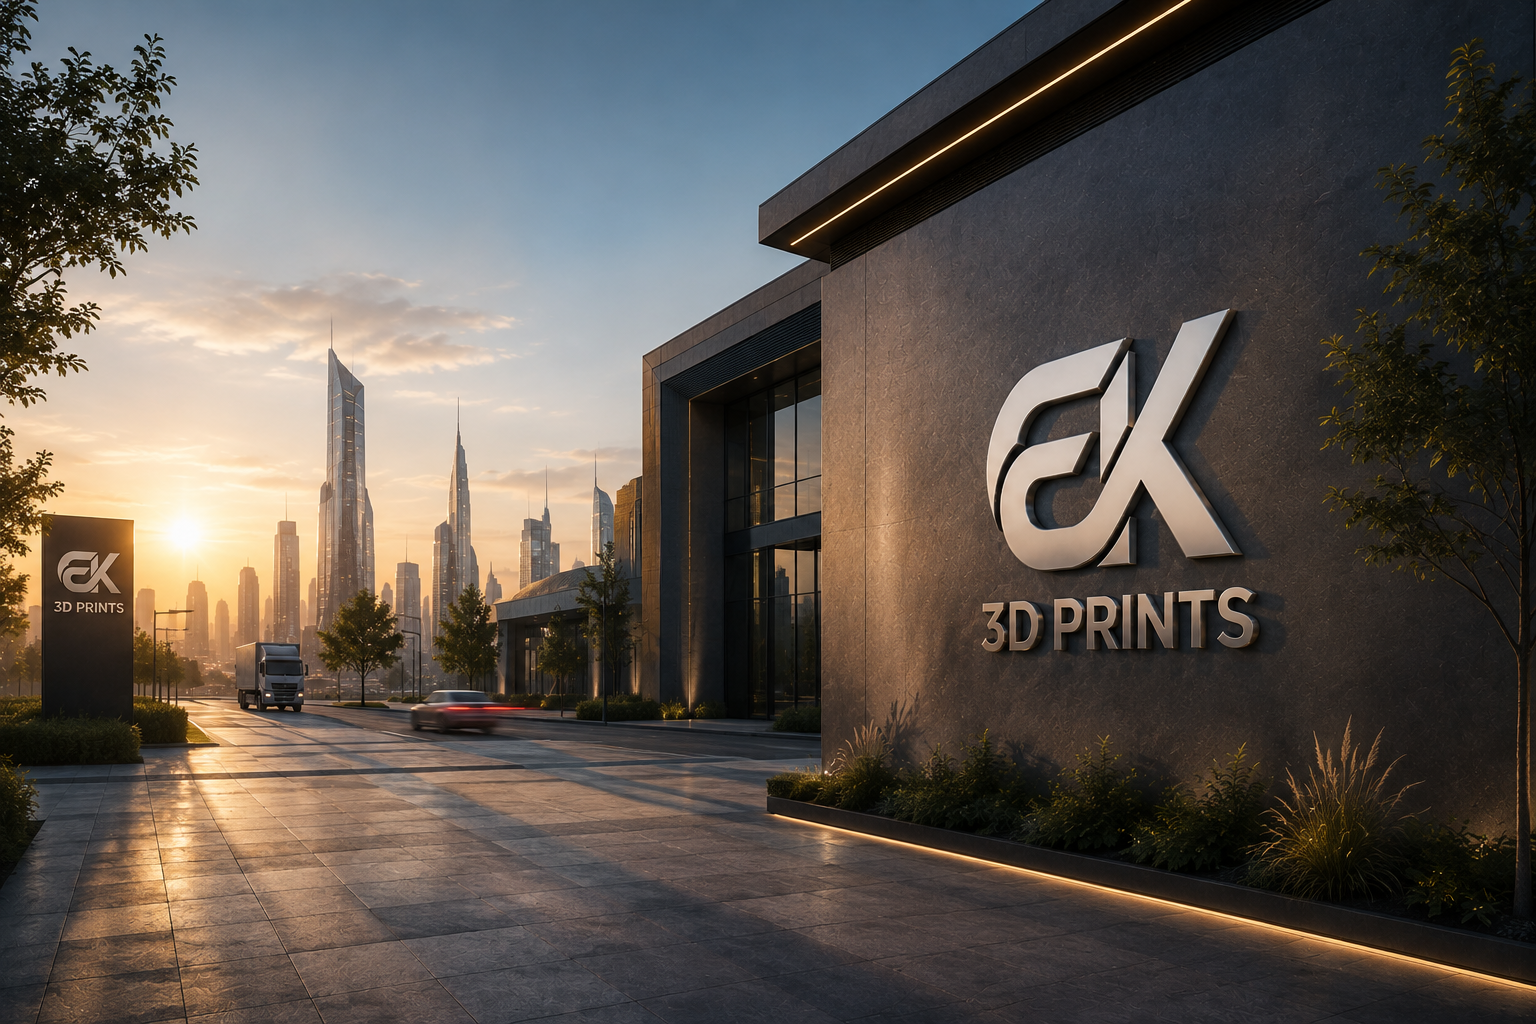
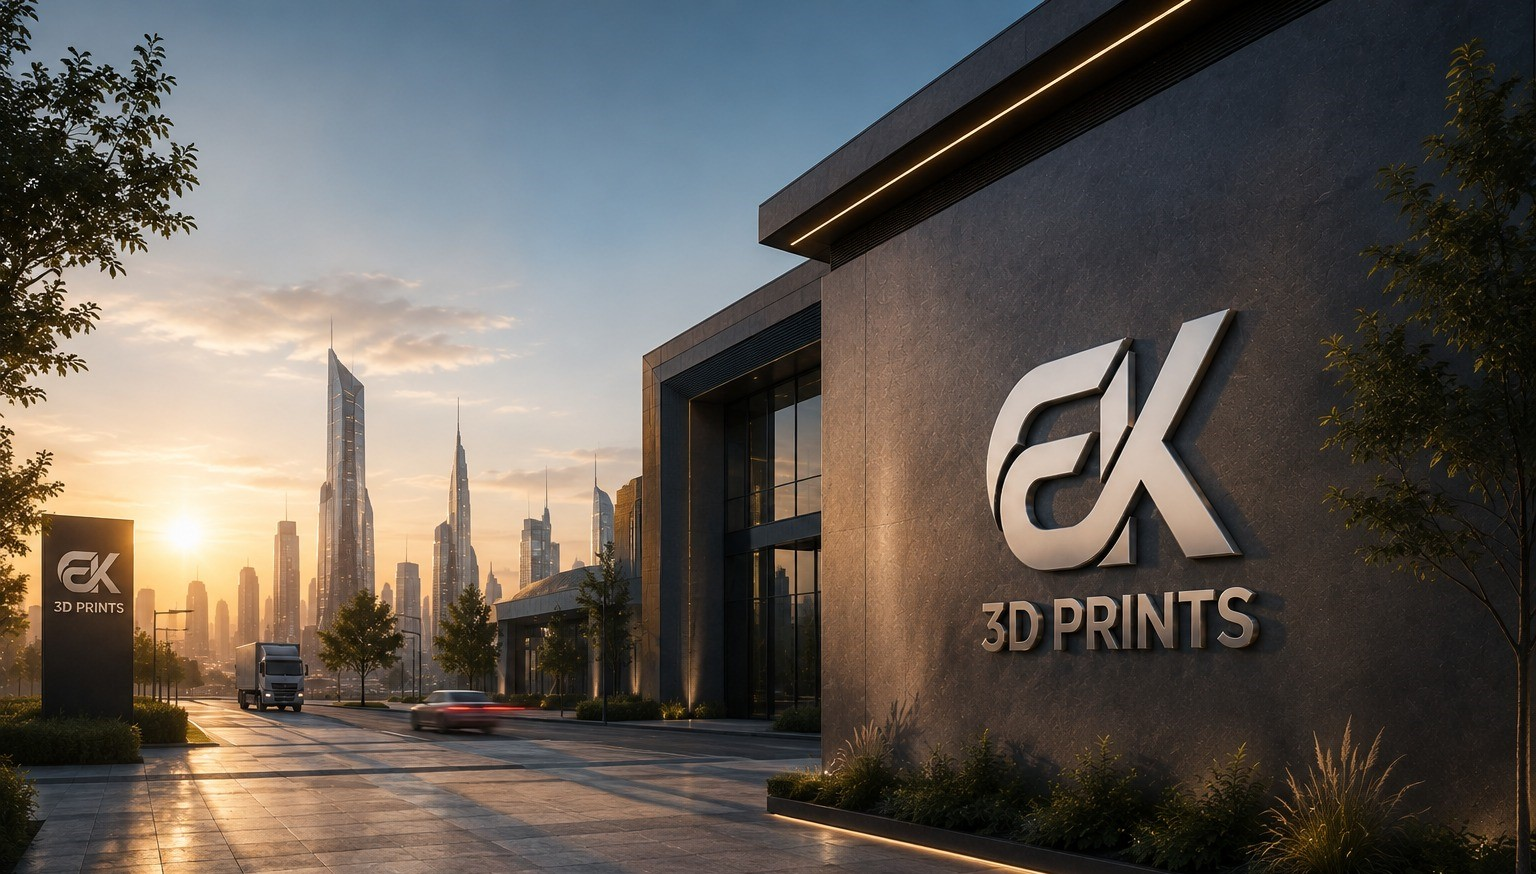
finish

diff --git a/src/components/aboutPage/VandMBox.tsx b/src/components/aboutPage/VandMBox.tsx
@@ -15,9 +15,9 @@ export function VandMBox({
         <Image
           width={500}
           height={500}
-          src={`/about/${img}.webp`}
+          src={`/about/${img}.png`}
           alt="image"
-          className="w-full aspect-[122/41] "
+          className="w-full aspect-[16/9] "
         />
         <div
           className="absolute top-0 left-0 w-full h-full  
